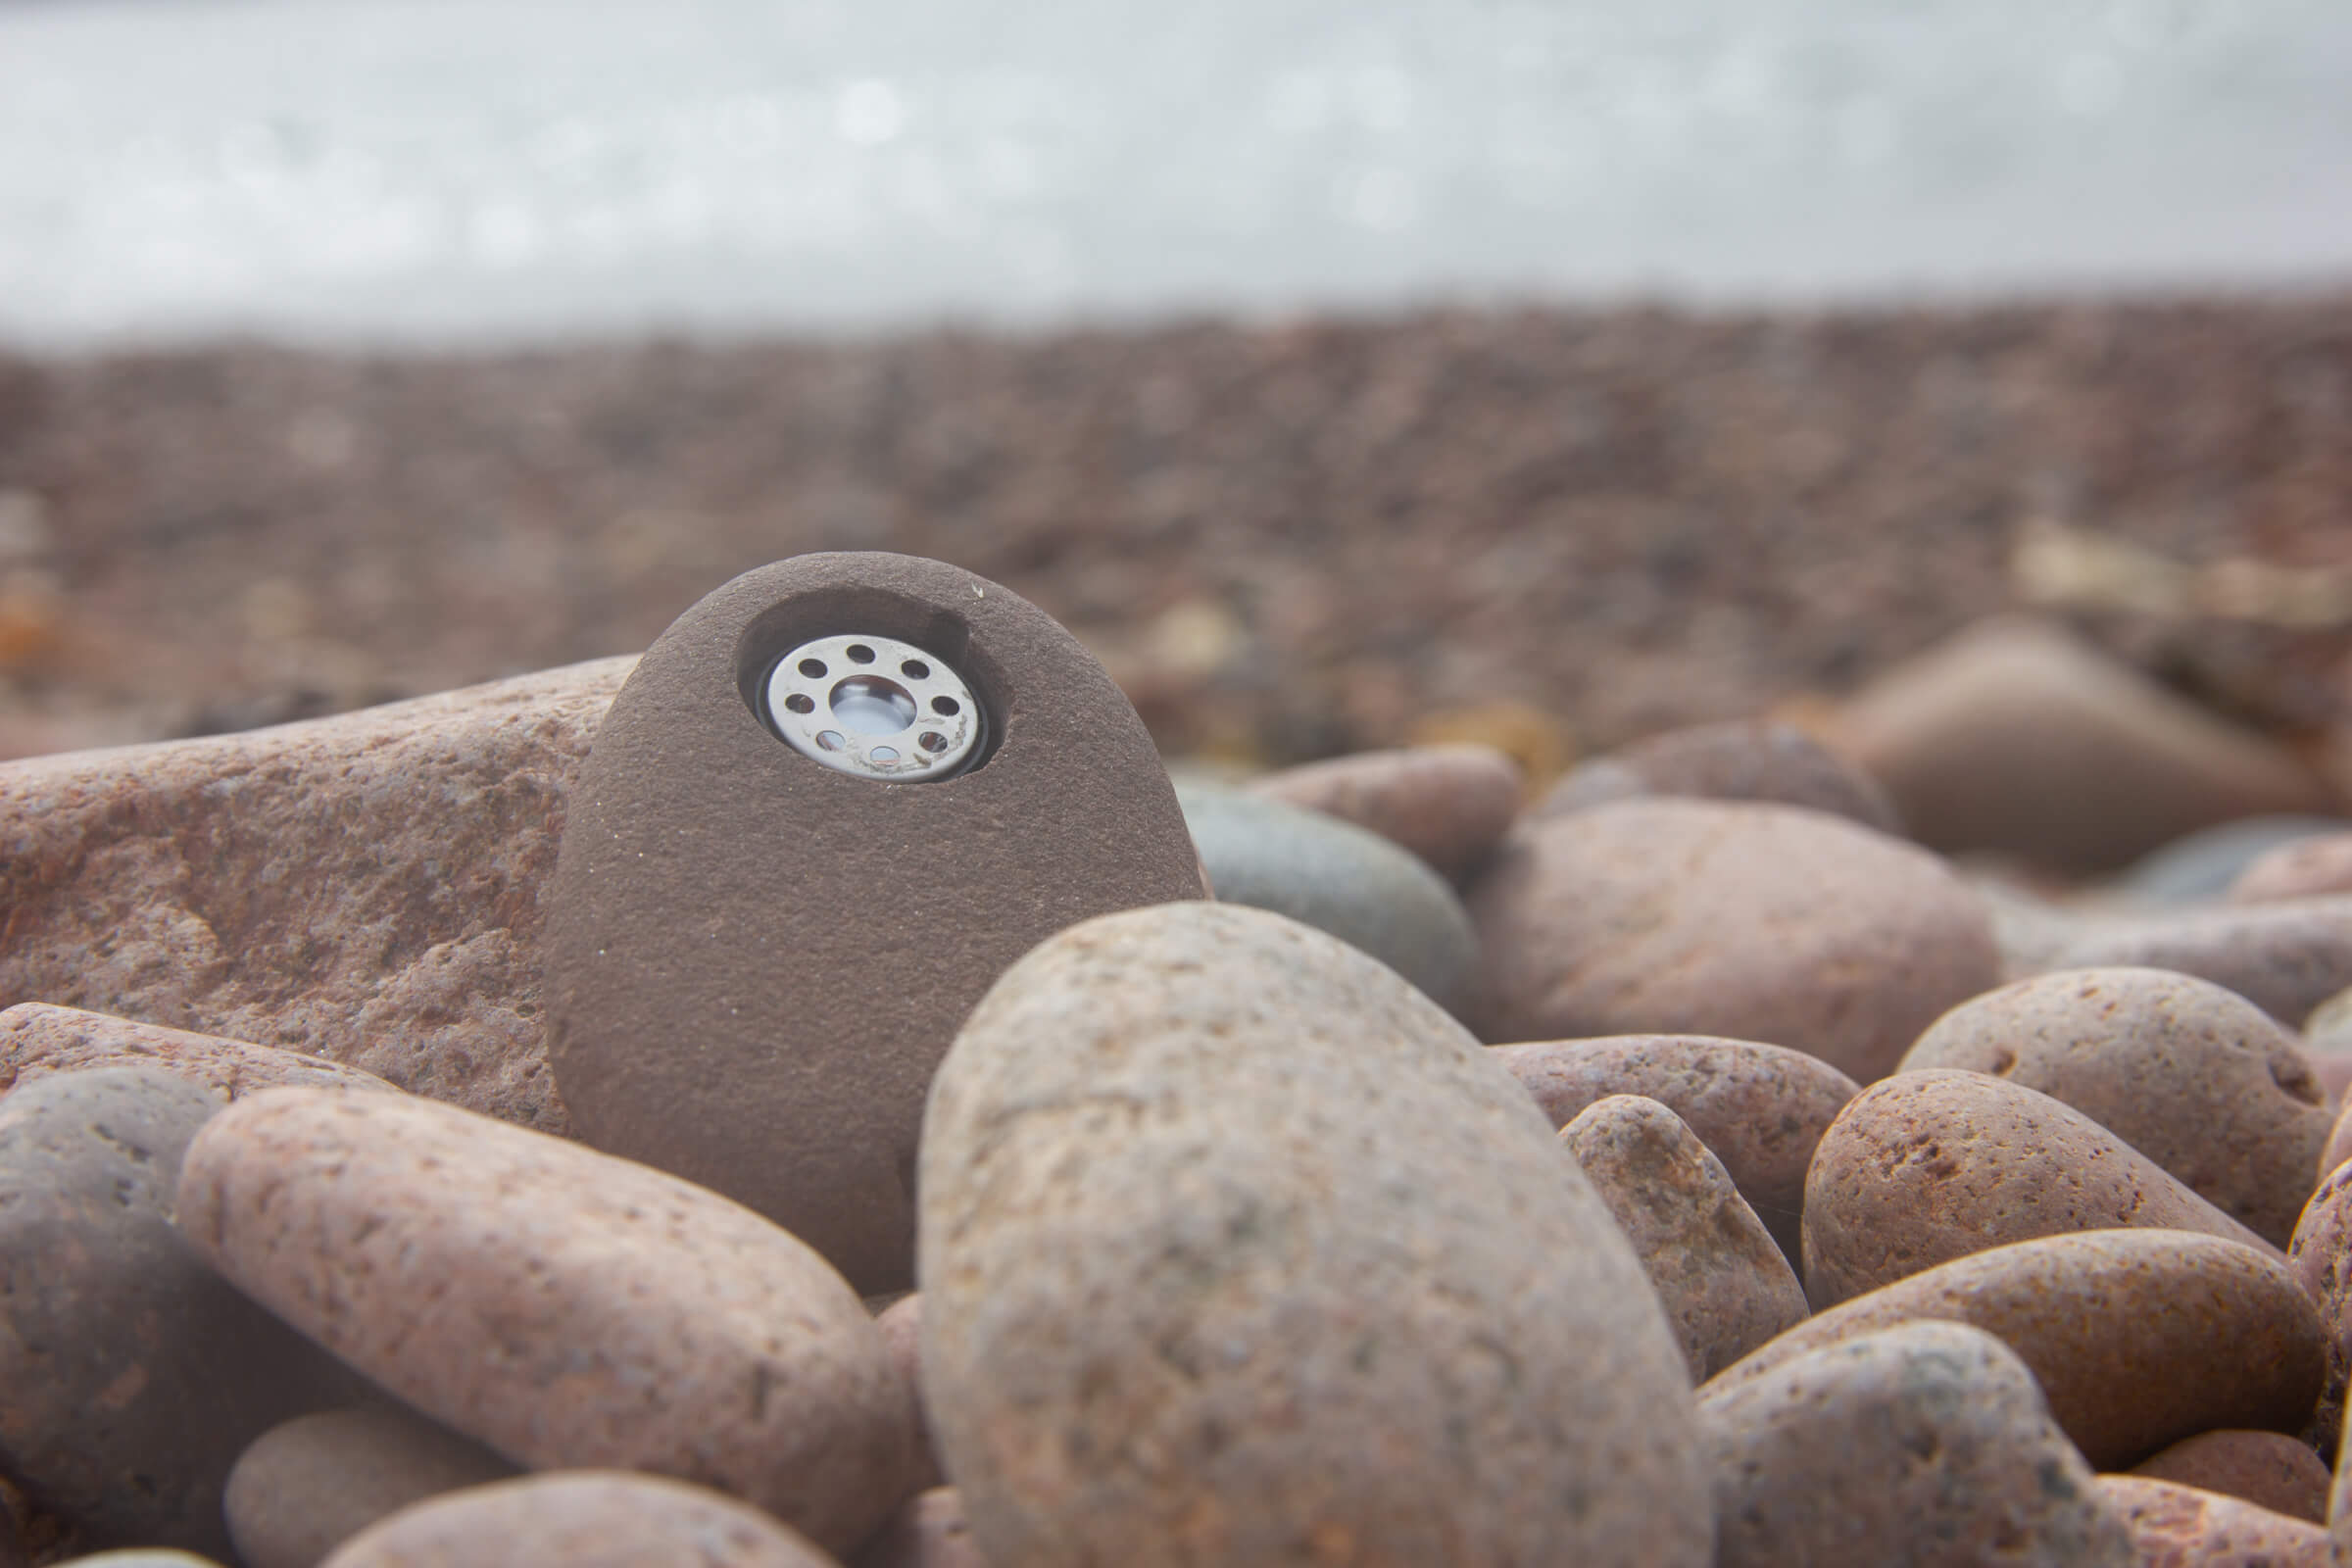
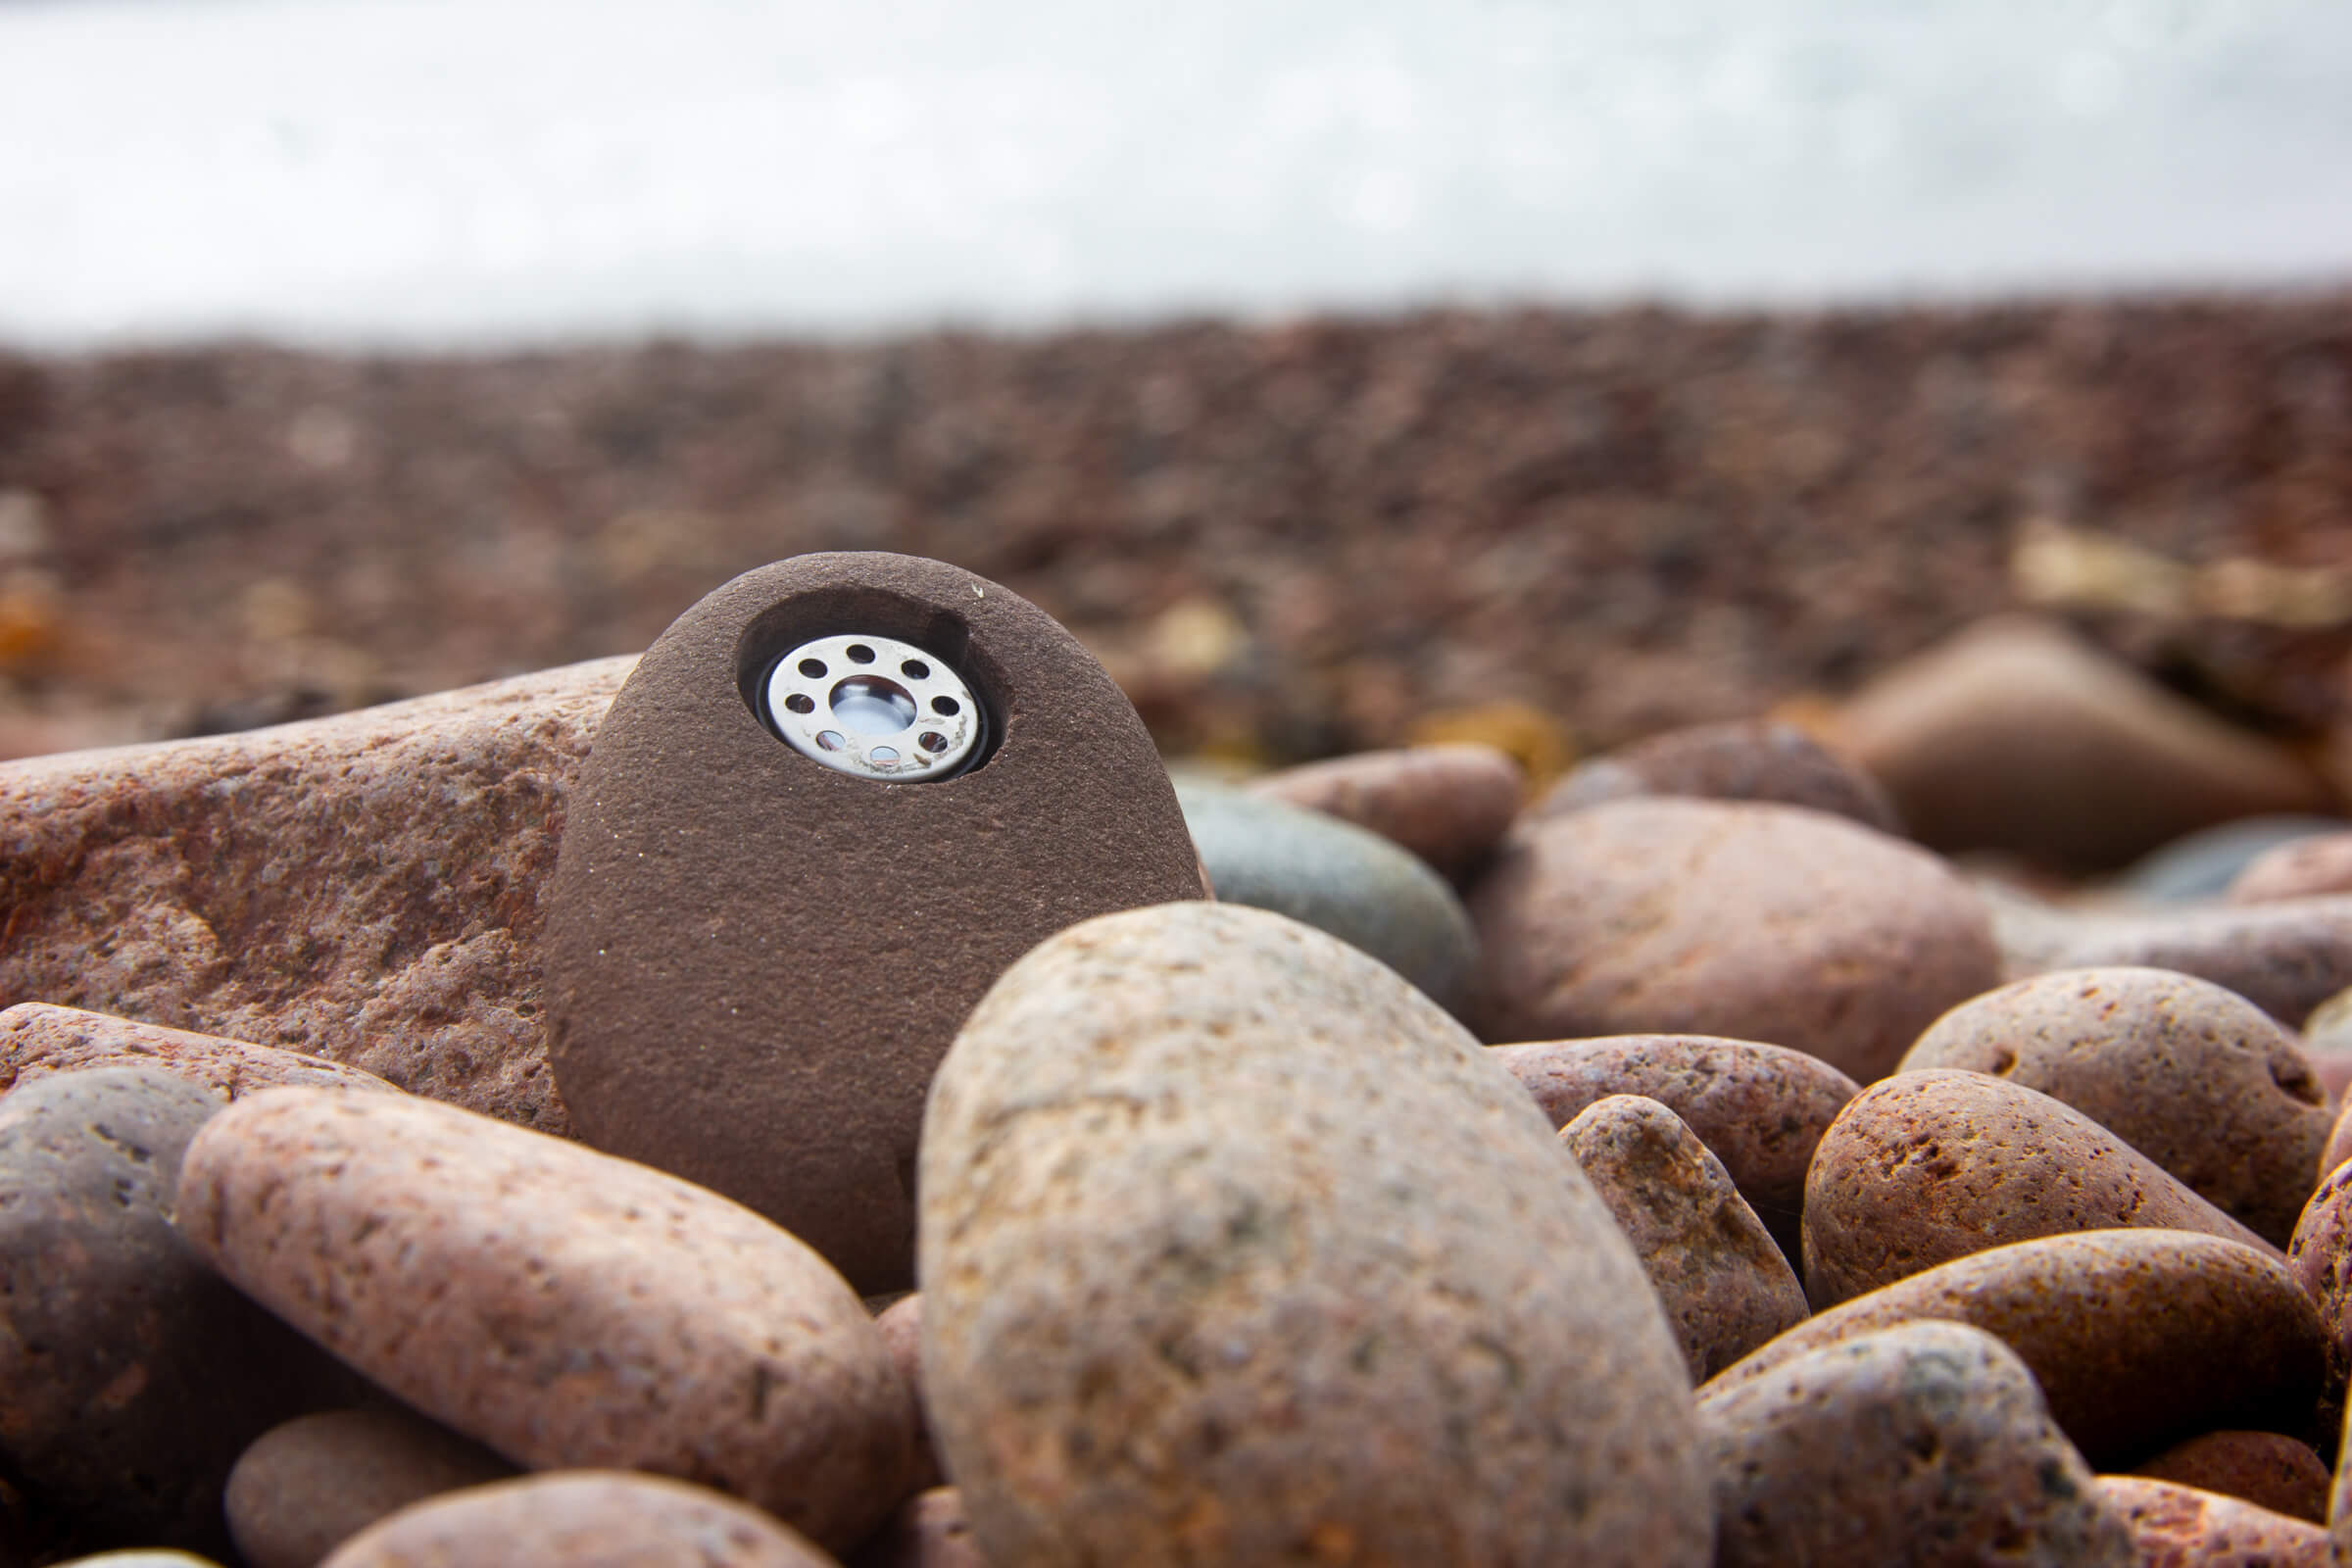
Refresh photo

diff --git a/_gallery/seahear.md b/_gallery/seahear.md
@@ -16,6 +16,9 @@ images:
   - image_path: "/assets/images/IMG_3656.jpg"
     image_title: "Beach speaker"
     image_description_markdown: ""
+  - image_path: "/assets/images/IMG_3626.jpg"
+    image_title: "Beach speaker, Shetland"
+    image_description_markdown: ""
   - image_path: "/assets/images/IMG_20170526_112900.jpg"
     image_title: "Beach speaker, Shetland"
     image_description_markdown: ""
@@ -69,3 +72,4 @@ _comments:
 
 <strong>Sea Hear</strong> was first shown as part of **Seeing Sound from Inside Out** at Fringe Arts Bath in 2015. Visitors to the exhibition were invited to record their memories and experiences of the sea to add to the audio collection.
 
+<!-- TO DO : Re-add Audio - used to be on Soundcloud -->
